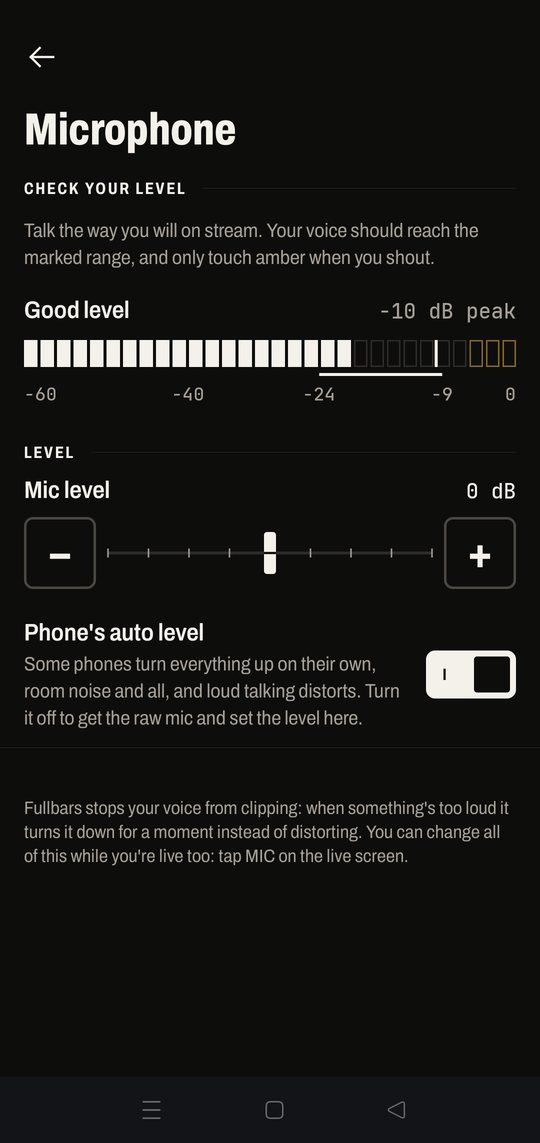
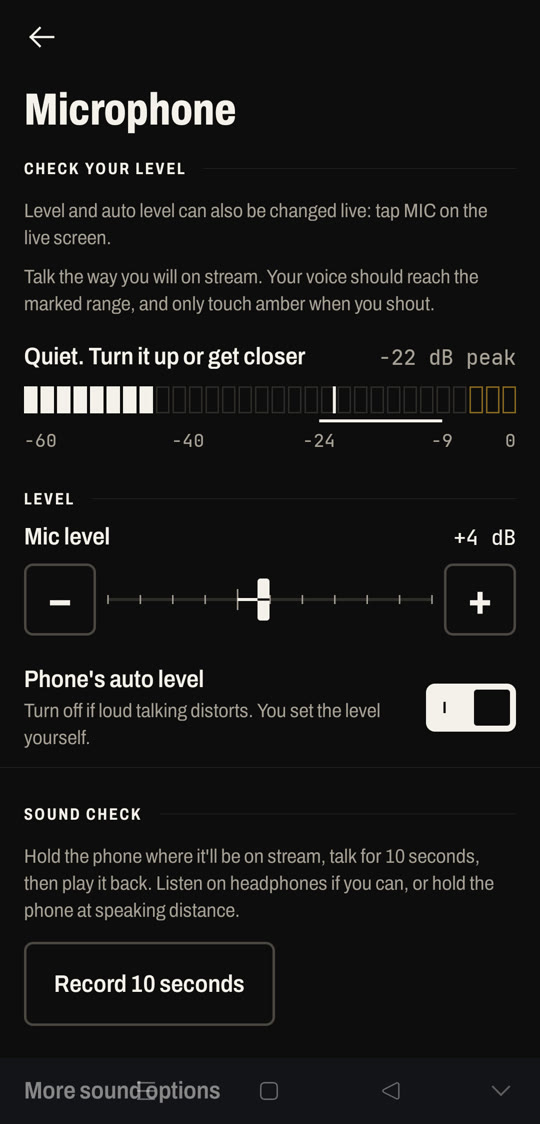
Update for 0.7.0 test build 1: preview, captions, your own scenes, a calmer app

diff --git a/index.html b/index.html
@@ -51,13 +51,13 @@
         <a class="btn primary" href="https://github.com/AnnabelleChimpton/fullbars/releases">Download the test build</a>
         <a class="textlink" href="/setup/">How to set it up</a>
       </div>
-      <p class="fine">Version 0.6.0 · Android 12 or newer · a test build from GitHub, not on Google Play yet.</p>
+      <p class="fine">Version 0.7.0 · Android 12 or newer · a test build from GitHub, not on Google Play yet.</p>
       <div class="ruler" data-step="0" aria-hidden="true"><span class="cursor"></span></div>
     </div>
     <figure class="shot reg" style="margin:0">
       <span class="reg-b"></span>
-      <img src="/img/live-brb.jpg" width="540" height="1188" alt="The Fullbars live screen on the BRB card. A pill at the top says BRB, viewers see your BRB screen and hear you. The instrument line along the bottom shows LIVE 0:00:21, AT&T 1.8 Mb/s, Wi‑Fi 2.2 Mb/s and MIC on, over four keys: END, SCENES, MUTE and BACK LIVE.">
-      <figcaption>The live screen on the BRB card. OnePlus 12, Test stream.</figcaption>
+      <img src="/img/live-captions.jpg" width="540" height="1188" alt="The Fullbars live screen on the Starting soon card, with live captions of what the streamer is saying along the bottom of the picture. A pill at the top says Live, Starting soon, not on camera, they hear you. The instrument line shows the live timer, the upload speed and the mic, over four keys: END, SCENES, MUTE and TO CAMERA.">
+      <figcaption>Live on the Starting soon card, with live captions. OnePlus 12.</figcaption>
     </figure>
   </div>
 </section>
@@ -159,50 +159,51 @@
     <div class="sh"><span class="label">What's in the app</span><span class="stamp">03</span></div>
     <h2 class="sr" id="features-title">What's in the app</h2>
     <div class="rows">
-      <div class="row"><h3>Test streams</h3><p>Test is the default. It uses Twitch's bandwidth test, so nobody can watch a test on Twitch, not even you. A pre-flight check before you start, and a recap after: "We kept you live through 3 connection drops."</p></div>
+      <div class="row"><h3>Test streams</h3><p>Test is the default. It uses Twitch's bandwidth test, so nobody can watch a test on Twitch, not even you. A pre-flight check before you start, a preview before anything is sent, and a recap after: "We kept you live through 3 connection drops."</p></div>
       <div class="row"><h3>Helper phones</h3><div><p>A spare phone in your pocket adds its mobile data. While you're live it joins your streaming phone's hotspot by itself, so there's nothing to type.</p><p class="tagline help">Helpers speak Moblin's Moblink protocol, so Moblin's helpers should work too. So far it's tested with Fullbars on both phones.</p></div></div>
-      <div class="row"><h3>DJI Pocket 3 <span class="tag dashed">Labs</span></h3><div><p>Fullbars starts the Pocket's stream over Bluetooth and takes it in over Wi‑Fi, so the Pocket works as a wireless camera on Android.</p><p class="tagline help">Unofficial: DJI doesn't support it, and it sits behind a Labs switch. Other RTMP cameras work too.</p></div></div>
-      <div class="row"><h3>Scene cards</h3><div><p>Starting soon, BRB, Privacy and Ending, one tap away, plus automatic Signal lost, Weak signal and Camera lost cards. Your phone draws them, so they look the same with or without the server.</p><p class="tagline help">Make each one yours: your words, a picture, a still or GIF background, a layout and an accent colour. Add a countdown, a time-away counter, chat on the card, or a web page instead of the card.</p></div></div>
-      <div class="row"><h3>Alerts</h3><p>Follows, subs, gift subs, bits, raids and tips, drawn on stream with sound. Give each kind your own words and picture, and try one before you go live.</p></div>
+      <div class="row"><h3>DJI Pocket 3 <span class="tag dashed">Labs</span></h3><div><p>Fullbars starts the Pocket's stream over Bluetooth and takes it in over Wi‑Fi, so the Pocket works as a wireless camera on Android.</p><p class="tagline help">Unofficial: DJI doesn't support it, so the app asks you to confirm when you choose it in Settings › Camera. Other RTMP cameras work too.</p></div></div>
+      <div class="row"><h3>Scene cards</h3><div><p>Starting soon, BRB, Privacy and Ending, one tap away, up to four scenes of your own, plus automatic Signal lost, Weak signal and Camera lost cards. Your phone draws them, so they look the same with or without the server.</p><p class="tagline help">Make each one yours: your words in one of eight fonts, any colour, a picture, a still or GIF background, a layout and an accent. Add a countdown, a time-away counter, chat on the card, music under it, or a web page instead of the card.</p></div></div>
+      <div class="row"><h3>Alerts</h3><p>Follows, subs, gift subs, bits, raids and tips, drawn on stream with sound. Pick which ones show, where, how big and for how long, and give each kind your own words, picture, colours and sound.</p></div>
+      <div class="row"><h3>Live captions</h3><p>What viewers hear you say, recognised on your phone and written on the stream. Nothing is sent anywhere, and they stop while you're muted. Android 13 or newer.</p></div>
+      <div class="row"><h3>Your mic, your level</h3><p>A live level meter, a sound check you can play back, a fader up to +30 dB, a limiter, and a switch for the phone's own auto level, which on some phones blows your voice out.</p></div>
       <div class="row"><h3>Chat and overlays</h3><p>Twitch chat with emotes, on your screen and on stream. Chat read aloud into your earbuds. Text, image, or StreamElements and Streamlabs web overlays.</p></div>
       <div class="row"><h3>Also stream to</h3><div><p>Your BRB server can send the same stream to Kick, YouTube or any RTMP server too, up to three at once. Your phone still uploads it only once.</p><p class="tagline help">Chat, alerts and mod commands stay on Twitch. Test streams never go anywhere else.</p></div></div>
-      <div class="row"><h3>Your mods</h3><p>Mod chat commands, and a web remote your mods can open to switch scenes for you.</p></div>
+      <div class="row"><h3>Your mods</h3><p>Mod chat commands, and a web remote your mods can open to switch scenes for you, your own scenes included.</p></div>
       <div class="row"><h3>My OBS</h3><p>Streaming through OBS at home? The server can feed your OBS instead of Twitch, and NOALBS can switch scenes from its stats.</p></div>
     </div>
 
-    <div class="screens" style="margin-top:48px">
-      <figure><img src="/img/live-weak.jpg" width="540" height="1188" loading="lazy" alt="The live screen during a weak signal: an amber full-width pill says Live, Weak signal, viewers see your Weak signal screen and hear you. The AT&T column is amber at 0.3 Mb/s; Wi‑Fi shows 2.1 Mb/s."><figcaption>Weak signal: the pill turns amber and says what viewers see.</figcaption></figure>
-      <figure><img src="/img/live-starting-soon.jpg" width="540" height="1188" loading="lazy" alt="The live screen on the Starting soon card, a light card with the headline Starting soon and the line Getting the rig ready. Not long now."><figcaption>Starting soon, one of the scene cards you can make your own.</figcaption></figure>
+    <div class="screens" style="margin-top:48px;grid-template-columns:minmax(0,320px)">
+      <figure><img src="/img/settings-microphone.jpg" width="540" height="1124" loading="lazy" alt="Settings, Microphone: a live level meter, the mic level fader at plus 4 dB, the Phone's auto level switch and the sound check."><figcaption>Settings › Microphone: check your level before you go live.</figcaption></figure>
     </div>
   </div>
 </section>
 
 <section id="new" aria-labelledby="new-title">
   <div class="wrap">
-    <div class="sh"><span class="label">New in 0.6</span><span class="stamp">0.6.0 · Nov 2026</span></div>
+    <div class="sh"><span class="label">New in 0.7</span><span class="stamp">0.7.0 · Nov 2026</span></div>
     <div class="release">
       <div>
-        <h2 class="display-s" id="new-title">Your mic, your level.</h2>
-        <p class="lede" style="margin-top:16px">Some phones turn everything up on their own, room noise and all, and loud talking distorts. On a OnePlus 12, the phone's own processing runs about 28 dB hotter than the raw mic, which is why streamers on it sound blown out.</p>
+        <h2 class="display-s" id="new-title">Check your shot. Then go live.</h2>
+        <p class="lede" style="margin-top:16px">Start now opens a preview, like any camera app: your picture, the mic meter and your connections, with nothing sent yet. When it looks right, go live on your camera, or on your Starting soon card while you finish setting up.</p>
         <div class="figures" role="list">
-          <div role="listitem"><span class="label">Fader, up to</span><span class="v">+30 dB</span></div>
-          <div role="listitem"><span class="label">Limiter</span><span class="v">−1 dBFS</span></div>
-          <div role="listitem"><span class="label">Hotter</span><span class="v">≈28 dB</span></div>
+          <div role="listitem"><span class="label">Scenes of your own</span><span class="v">4</span></div>
+          <div role="listitem"><span class="label">Card fonts</span><span class="v">8</span></div>
+          <div role="listitem"><span class="label">Captions sent off the phone</span><span class="v">0</span></div>
         </div>
         <div class="rows">
-          <div class="row"><h3>A live level meter</h3><p>Talk the way you will on stream and watch where your voice lands.</p></div>
-          <div class="row"><h3>Phone's auto level</h3><p>Turn it off to get the raw mic and set the level yourself.</p></div>
-          <div class="row"><h3>A limiter</h3><p>When something's too loud, Fullbars turns it down for a moment instead of distorting.</p></div>
-          <div class="row"><h3>Landscape setup</h3><p>Stream sideways and the whole app sets up sideways too, even with rotation lock on: the checklist on the left, the go-live button under your right thumb.</p></div>
-          <div class="row"><h3>The Instrument design</h3><p>One dark plate over the video. Quiet while things are fine, loud only when something's wrong.</p></div>
-          <div class="row"><h3>Also new</h3><p>Scene cards you can make your own, your own words and picture on alerts, Twitch emotes in chat, and Also stream to for Kick and YouTube.</p></div>
+          <div class="row"><h3>Live captions</h3><p>What viewers hear you say, recognised on your phone and written on the stream. Turn them on or off while live from Scenes.</p></div>
+          <div class="row"><h3>Your own scenes</h3><p>Up to four cards of your own, like Lunch or Q&amp;A. They're in Scenes, on the mod remote, and mods can type <code>!scene lunch</code>.</p></div>
+          <div class="row"><h3>Cards your way</h3><p>Eight fonts, text size and colour, any accent colour, and music that plays under a card while it's up.</p></div>
+          <div class="row"><h3>Alerts your way</h3><p>Which alerts show and the smallest worth showing, where they go, how big, how long, their colours, and a sound of your own for each kind.</p></div>
+          <div class="row"><h3>A calmer app</h3><p>Every screen gone through to cut clutter. The live pill says Test or Live and what viewers get in one line, Home leads with "Ready for 1080p", and advanced settings fold away until you want them.</p></div>
+          <div class="row"><h3>Steadier streams</h3><p>Smarter bitrate control on combined connections, even frame timing, and Wi‑Fi dropping mid-stream no longer flashes the Signal lost card.</p></div>
         </div>
-        <p class="help" style="margin-top:16px">Set the mic in Settings › Microphone before you go live, or tap MIC on the live screen.</p>
+        <p class="help" style="margin-top:16px">Running your own server? Update it too: <code>git pull</code>, then <code>server/brb/deploy.sh</code> again.</p>
       </div>
       <figure class="shot reg" style="margin:0">
         <span class="reg-b"></span>
-        <img src="/img/settings-microphone.jpg" width="540" height="1143" loading="lazy" alt="Settings, Microphone: a level meter saying Good level, the mic level fader at 0 dB, and the Phone's auto level switch.">
-        <figcaption>Settings › Microphone.</figcaption>
+        <img src="/img/settings-cards.jpg" width="540" height="1124" loading="lazy" alt="Settings, Scene cards: the card chooser in two groups, Card (Starting soon, BRB, Privacy, Ending and a plus Scene key) and Automatic (Signal lost, Weak signal, Camera lost), over a preview of the Starting soon card.">
+        <figcaption>Settings › Scene cards.</figcaption>
       </figure>
     </div>
   </div>
@@ -240,7 +241,7 @@
       <details><summary>What do viewers see when I lose signal?</summary><div class="a"><p>With the BRB server, a Signal lost card ("The stream picks up when the connection's back") made by your phone to match your stream. Twitch sees one unbroken stream, and your picture comes back within seconds of your signal. If you're gone for 10 minutes, the server ends the stream.</p><p>Without the server, viewers see a frozen frame, and Twitch may show you as offline until your phone reconnects. If Disconnect Protection is on in your Twitch settings, Twitch can show its own fixed message for up to 90 seconds instead; we haven't tested that with Fullbars yet.</p></div></details>
       <details><summary>How much data does it use?</summary><div class="a"><p>At 1080p and 6 Mb/s, about 2.8 GB an hour, split across your connections. Home shows the figure for the quality you pick before you go live. Fullbars lowers the quality on its own when the signal gets weak.</p></div></details>
       <details><summary>Is my stream key safe?</summary><div class="a"><p>Sign in with Twitch and Fullbars fetches your key; you never copy it anywhere. With a BRB server, the phone sends it over an encrypted connection that trusts only your server's key, from the pairing QR code. The server keeps it in a file only it can read and never prints or logs it. Kick or YouTube keys you add for Also stream to are kept the same way. The stream itself is encrypted between your phone and your server.</p></div></details>
-      <details><summary>Does the DJI Pocket 3 work?</summary><div class="a"><p>Yes, as a Labs feature. Turn on Labs on the Camera page, and Fullbars finds the Pocket over Bluetooth, starts its stream and takes it in over Wi‑Fi. It's unofficial: DJI doesn't support it, and a future Pocket firmware could break it. Any camera that can stream RTMP works too.</p></div></details>
+      <details><summary>Does the DJI Pocket 3 work?</summary><div class="a"><p>Yes, as a Labs feature. Choose DJI Pocket 3 in Settings › Camera and confirm, and Fullbars finds the Pocket over Bluetooth, starts its stream and takes it in over Wi‑Fi. It's unofficial: DJI doesn't support it, and a future Pocket firmware could break it. Any camera that can stream RTMP works too.</p></div></details>
       <details><summary>Can I stream to YouTube or Kick?</summary><div class="a"><p>Yes, with your BRB server. <span class="path">Settings › Also stream to</span> sends the same stream to Kick, YouTube or any RTMP server, up to three at once, next to Twitch. Your phone uploads it once; the server sends the copies. Chat, alerts and mod commands stay on Twitch, and Test streams never go anywhere else.</p><p>Without the server, Fullbars streams to Twitch only.</p></div></details>
       <details><summary>Does the app collect anything?</summary><div class="a"><p>No. There's no account with us, and no analytics or crash reporting. The app talks only to Twitch, to StreamElements or Streamlabs if you add them, to web pages you add as overlays or cards, and to your own BRB server.</p></div></details>
       <details><summary>Is it on Google Play?</summary><div class="a"><p>Not yet. Test builds are on GitHub. They're debug-signed, so when a release-signed build arrives you'll need to uninstall the test build first.</p></div></details>

diff --git a/setup/index.html b/setup/index.html
@@ -43,7 +43,7 @@
 <div class="wrap">
 
   <div class="page-head">
-    <p class="label">Setup guide · version 0.6.0</p>
+    <p class="label">Setup guide · version 0.7.0</p>
     <h1 class="display">Set up Fullbars.</h1>
     <p class="lede">Steps 1 to 3 get you live on Twitch from your phone. Steps 4 to 6 are optional: they keep you live in dead zones, add more connections, and send your stream to Kick or YouTube too. Each step says what it costs, how long it takes, and why it's worth it.</p>
     <ol class="toc">
@@ -108,9 +108,9 @@
     <div class="body">
       <ol>
         <li><strong>Check your mic.</strong> Open <span class="path">Settings › Microphone</span> and talk the way you will on stream. Your voice should reach the marked range, and only touch amber when you shout. If you sound too loud or harsh, turn off <span class="path">Phone's auto level</span> and set the level with the fader.</li>
-        <li><strong>Start the test.</strong> On Home, <span class="path">TEST only you</span> is picked by default. Tap <span class="path">Start test</span>.</li>
-        <li><strong>Walk around.</strong> Try the keys along the bottom: <span class="path">BRB</span> puts your BRB card up, <span class="path">SCENES</span> has the rest. The pill at the top says what viewers would see.</li>
-        <li><strong>End it.</strong> Hold <span class="path">END</span> for 2 seconds. The recap shows how long it ran and how many times the connection dropped. Tap <span class="path">Check it arrived in Twitch Inspector</span> to see it on Twitch's side.</li>
+        <li><strong>Start the test.</strong> On Home, <span class="path">TEST private</span> is picked by default. Tap <span class="path">Start test</span>. You see a preview first, with the mic meter and your connections: nothing is sent yet. Choose whether viewers start on your camera or your Starting soon card, then tap <span class="path">START TEST</span>.</li>
+        <li><strong>Walk around.</strong> Try the keys along the bottom: <span class="path">BRB</span> puts your BRB card up and <span class="path">TO CAMERA</span> brings you back, <span class="path">SCENES</span> has the rest. The pill at the top says what viewers would see and hear.</li>
+        <li><strong>End it.</strong> Hold <span class="path">END</span> for 2 seconds. The recap shows how long it ran and how many times the connection dropped. Tap <span class="path">Check it in Twitch Inspector</span> to see it on Twitch's side.</li>
       </ol>
       <p>After a clean test, Fullbars offers <span class="path">Go live now</span>. That's it: without a server, Fullbars streams straight to Twitch over your phone's connection.</p>
     </div>
@@ -170,14 +170,14 @@ server/brb/deploy.sh root@<span class="ph">YOUR_SERVER_ADDRESS</span></pre></div
         <li>On your computer, ask the server for a pairing code:
           <div class="cmd" data-what="show the pairing code"><div class="cmd-h"><span class="label">On your computer</span></div><pre>ssh -t root@<span class="ph">YOUR_SERVER_ADDRESS</span> docker exec -it fullbars-brb brb pair</pre></div>
           A QR code appears in the terminal.</li>
-        <li>In Fullbars, open <span class="path">Settings › Combine connections</span>, turn on <span class="path">Combine connections</span>, tap <span class="path">Scan pairing code</span>, and scan it.</li>
+        <li>In Fullbars, open <span class="path">Settings › Combine connections</span>, turn on <span class="path">Use Wi‑Fi and mobile data together</span>, tap <span class="path">Scan pairing code</span>, and scan it.</li>
       </ol>
       <p class="note"><strong>Treat the code like a password:</strong> whoever has it can stream through your server. If it leaks, run <code>docker exec -it fullbars-brb brb pair -reset</code> on the server and pair again.</p>
       <p>Done. Do another Test stream: the live screen now shows each connection along the bottom, with its own Mb/s. Fullbars sends your Twitch details to the server each time you go live, so you never put a stream key on the server.</p>
 
       <h3><span class="fig">4f</span>If something's wrong</h3>
       <dl class="lic" style="margin-top:8px">
-        <div><dt>"Can't reach your BRB server"</dt><dd>Is it running? Log in and run <code>docker ps</code>. Are UDP and TCP 5000 open in every firewall your provider has?</dd></div>
+        <div><dt>"Can't reach your server"</dt><dd>Is it running? Log in and run <code>docker ps</code>. Are UDP and TCP 5000 open in every firewall your provider has?</dd></div>
         <div><dt>Live, but only one connection shows</dt><dd>Mobile data is off, or Wi‑Fi isn't connected. Combine uses whatever is there.</dd></div>
         <div><dt>"This BRB server doesn't know this phone any more"</dt><dd>The server was re-paired or rebuilt. Pair again (4e).</dd></div>
         <div><dt>Viewers see nothing</dt><dd>Run <code>docker logs fullbars-brb</code> on the server. "Twitch refused the stream" means Twitch rejected the key: check you're signed in to the right channel in Fullbars.</dd></div>
@@ -206,8 +206,8 @@ server/brb/deploy.sh root@<span class="ph">YOUR_SERVER_ADDRESS</span></pre></div
       <p>Any spare Android 12+ phone with its own SIM and data. It goes in your pocket or bag, and adds its mobile data to your stream.</p>
       <ol>
         <li>Install Fullbars on the spare phone (step 1).</li>
-        <li>On your <strong>streaming phone</strong>: <span class="path">Settings › Helper phones</span>, turn on <span class="path">Accept helper phones</span>, leave <span class="path">Make a hotspot for helpers</span> on, and allow Nearby devices. Keep Bluetooth on.</li>
-        <li>On the <strong>helper phone</strong>: <span class="path">Settings › Helper phones</span>, tap <span class="path">Scan the streaming phone's code</span>, and scan the code your streaming phone shows. Allow Nearby devices, and keep its Bluetooth, Wi‑Fi and mobile data on (the Wi‑Fi doesn't need to be connected to anything). It says it's waiting for you to go live.</li>
+        <li>On your <strong>streaming phone</strong>: <span class="path">Settings › Helper phones</span>, turn on <span class="path">Accept helper phones</span>, leave <span class="path">Make a hotspot for helpers</span> on, and allow Nearby devices. Keep Bluetooth on. Tap <span class="path">Add a helper phone</span> to show its code.</li>
+        <li>On the <strong>helper phone</strong>: <span class="path">Settings › Helper phones › Use this phone as a helper</span>, tap <span class="path">Scan the streaming phone's code</span>, and scan the code your streaming phone shows. Allow Nearby devices, and keep its Bluetooth, Wi‑Fi and mobile data on (the Wi‑Fi doesn't need to be connected to anything). It says it's waiting for you to go live.</li>
         <li>Go live. Within about 15 seconds the helper finds your streaming phone's hotspot and asks to connect: tap <span class="path">Connect</span>. On Android 16 it may ask again each stream.</li>
       </ol>
       <p class="note">Tested with a Pixel 5 helping a OnePlus 12, including the Pixel carrying the whole stream on its own. Helpers use Moblin's Moblink protocol, so Moblin's helpers should work too, but that hasn't been tested yet.</p>
